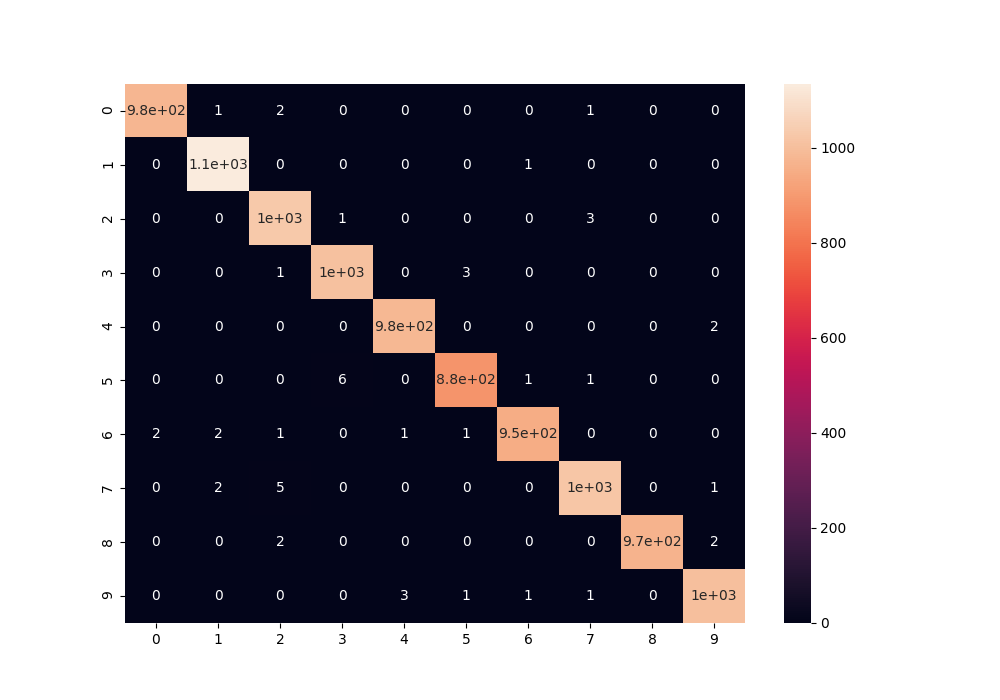
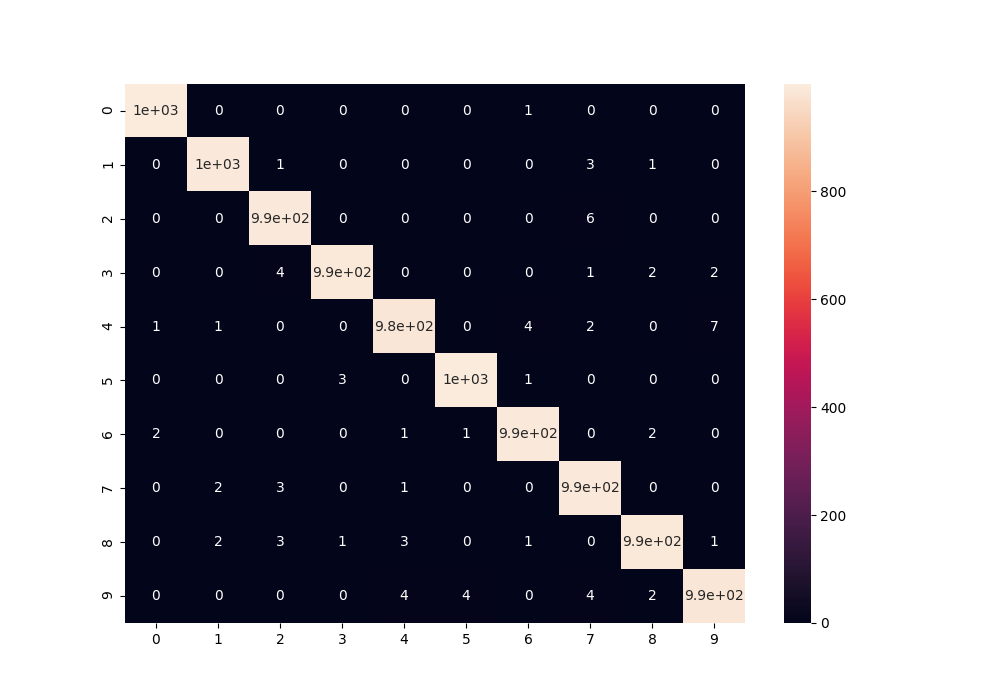
extreme measures

diff --git a/main.py b/main.py
@@ -12,7 +12,7 @@ from utils import *
 from classifier import *
 
 parser = argparse.ArgumentParser()
-parser.add_argument('--n_epochs', type=int, default=100)
+parser.add_argument('--n_epochs', type=int, default=30)
 parser.add_argument('--logInt', type=int, default=10)
 parser.add_argument('--momentum', type=float, default=.5)
 parser.add_argument('--lr', type=float, default=1e-2)
@@ -22,6 +22,8 @@ parser.add_argument('--msp', dest = 'modelStorePath', type=str, default="savedMo
 parser.add_argument('--vt', dest = 'varThresh', type=float, default=.1)
 parser.add_argument('--ns', dest = 'numSamp', type=int, default=20)
 parser.add_argument('--tr', dest = 'train', type=int, default=20)
+parser.add_argument('--lm', dest = 'loadModel', type=int, default=0)
+
 
 args = parser.parse_args()
 print(args)
@@ -35,7 +37,8 @@ if not os.path.exists(args.modelStorePath):
 train_loader, test_loader = getData(args)
 
 network = Net()
-network.load_state_dict(torch.load(args.modelStorePath + '/model.pt'))
+if args.train==0 or args.loadModel:
+  network.load_state_dict(torch.load(args.modelStorePath + '/model.pt'))
 
 optimizer = optim.SGD(network.parameters(), lr=args.lr, momentum=args.momentum)
 
@@ -85,8 +88,9 @@ def test(epoch, bestFP):
 
   return bestFP
 
+
 def decision():
-    finOutAll, finTarAll, lO = [], [], 0
+    finOutAll, finTarAll, finleft, finpred, lO = [], [], [], [], 0
     for data, target in test_loader:
       outs = []
       for i in range(args.numSamp):
@@ -103,18 +107,40 @@ def decision():
 
       finOut = []
       finTar = []
+      leftOut = []
+      predicted = []
+
       for ind, (i,j) in enumerate(zip(out, target)):
-        if outV[ind, i] < args.varThresh:
+        if outV[ind, i] < args.varThresh and outM[ind, i] > .5:
+        # if outM[ind, i] > .5:
+
           finOut.append(i)
           finTar.append(j)
+          predicted.append(ind)
         else:
           lO += 1
+          leftOut.append(ind)
       
+        # if outM[ind, i] < .5:
+        
+        if i!=j:
+          if ind in predicted:
+            print(outM[ind, i])
+            print("----------------")
+
+            for k, p in zip(outV[ind].tolist(), outM[ind].tolist()):
+              print(k, p)
+            print(j)
+
       finOutAll.append(np.eye(10)[finOut])
       finTarAll.append(np.eye(10)[finTar])
-      print(lO)
+      finleft.append(leftOut)
+      finpred.append(predicted)
+      
     ratesMC(np.concatenate(finOutAll, axis=0), np.concatenate(finTarAll, axis=0))
-    print("Left Out = " + str(float((100.0*lO)/len(test_loader.dataset))))
+    print("Coverage = " + str(100 - float((100.0*lO)/len(test_loader.dataset))))
+    np.save('leftOut', np.array(finleft))
+    np.save('predicted', np.array(finpred))
 
 
 bestFP = float('inf')

diff --git a/utils.py b/utils.py
@@ -10,11 +10,55 @@ import numpy as np
 import seaborn as sn
 import pandas as pd
 from sklearn.metrics import confusion_matrix
+from numpy import genfromtxt
 
+
+
+class MNISTJ(torch.utils.data.Dataset):
+
+  def __init__(self, dataPath, transform=None, train=True):
+        'Initialization'
+        self.dataPath = dataPath
+        self.transform = transform
+        self.train = train
+
+        if train:
+            self.data = torch.from_numpy(np.load('mnistTr.npy'))
+        else:
+            self.data = torch.from_numpy(np.load('mnistTe.npy'))
+
+        # import pdb
+        # pdb.set_trace()
+
+  def __len__(self):
+        'Denotes the total number of samples'
+        return self.data.shape[0]
+
+  def __getitem__(self, index):
+        if torch.cuda.is_available():
+            typ = torch.cuda.FloatTensor
+            typ2 = torch.cuda.LongTensor
+        else:
+            typ = torch.FloatTensor
+            typ2 = torch.LongTensor
+
+        X = self.data[index, 1:].view(1, 28, 28).type(typ)
+        y = self.data[index, 0].type(typ2)
+
+        return X, y
 def getData(args):
 
+    # train_loader = torch.utils.data.DataLoader(
+    # torchvision.datasets.MNIST(args.dataPath, train=True, download=True,
+    #                             transform=torchvision.transforms.Compose([
+    #                             torchvision.transforms.ToTensor(),
+    #                             torchvision.transforms.Normalize(
+    #                                 (0.1307,), (0.3081,))
+    #                             ])),
+    # batch_size=args.batchSize, shuffle=True)
+
     train_loader = torch.utils.data.DataLoader(
-    torchvision.datasets.MNIST(args.dataPath, train=True, download=True,
+                                MNISTJ(args.dataPath, train=True,
                                 transform=torchvision.transforms.Compose([
                                 torchvision.transforms.ToTensor(),
                                 torchvision.transforms.Normalize(
@@ -23,7 +67,7 @@ def getData(args):
     batch_size=args.batchSize, shuffle=True)
 
     test_loader = torch.utils.data.DataLoader(
-    torchvision.datasets.MNIST(args.dataPath, train=False, download=True,
+                                MNISTJ(args.dataPath, train=False,
                                 transform=torchvision.transforms.Compose([
                                 torchvision.transforms.ToTensor(),
                                 torchvision.transforms.Normalize(

diff --git a/helperMNIST.py b/helperMNIST.py
@@ -1,0 +1,42 @@
+import torch
+import torchvision
+import matplotlib.pyplot as plt
+import torch.nn as nn
+import torch.nn.functional as F
+import torch.optim as optim
+import argparse
+import os
+import numpy as np
+import seaborn as sn
+import pandas as pd
+from sklearn.metrics import confusion_matrix
+from numpy import genfromtxt
+
+data = genfromtxt('mnist.csv', delimiter=',')[1:]
+
+data = np.take(data,np.random.rand(data.shape[0]).argsort(),axis=0,out=data)
+data = data[data[:,0].argsort()]
+
+test = []
+train = []
+ct = 0
+j = 0
+for i in range(data.shape[0]):
+    if ct >= 1000:
+        ct = 0
+        j+=1
+        train.append(i)
+    else:
+        if j == data[i, 0]:
+            test.append(i)
+            ct += 1
+        else:
+            train.append(i)
+
+
+trData = data[train, :]
+teData = data[test, :]
+
+
+np.save('mnistTr', trData)
+np.save('mnistTe', teData)

diff --git a/task.md b/task.md
@@ -1,0 +1,65 @@
+# TASK
+
+Your task if you accept it, is to train a classifier model on the provided
+MNIST dataset using the python libraries of you choice.
+
+For this task, you will need to build a test set with at least 1000 samples
+per class.
+
+Train the model of your choice and compute the following metrics:
+1. Confusion matrix
+2. Per class FPR
+3. Per class TPR
+
+The goal now for your classifier is to reach a maximum false positive rate
+of 0.015% for each class in the test set while maintaining the recall as high
+as possible, by carefully designing a decision strategy. Your classifier will
+output 'not_sure' for cases where the model prefers to avoid making a decision.
+
+With your updated decision strategy recompute the following metrics on your
+test set:
+1. Confusion matrix
+2. Per class FPR
+3. Per class TPR
+4. Coverage => 1 - (num predicted 'not_sure' examples) / (total examples)
+
+Once the task is complete, please return us your code implementation (ipython
+notebook or python scripts) and make sure we can run it on our side.
+
+# DATA DESCRIPTION
+
+The data file mnist.csv contains gray-scale images of hand-drawn digits,
+from zero through nine.
+
+Each image is 28 pixels in height and 28 pixels in width, for a total of 784
+pixels in total. Each pixel has a single pixel-value associated with it,
+indicating the lightness or darkness of that pixel, with higher numbers meaning
+darker. This pixel-value is an integer between 0 and 255, inclusive.
+
+The data set (mnist.csv), has 785 columns. The first column, called
+"label", is the digit that was drawn by the user. The rest of the columns
+contain the pixel-values of the associated image.
+
+Each pixel column in the training set has a name like pixelx, where x is an
+integer between 0 and 783, inclusive. To locate this pixel on the image,
+suppose that we have decomposed x as x = i * 28 + j, where i and j are integers
+between 0 and 27, inclusive. Then pixelx is located on row i and column j of a
+28 x 28 matrix, (indexing by zero).
+
+For example, pixel31 indicates the pixel that is in the fourth column from the
+left, and the second row from the top, as in the ascii-diagram below.
+
+Visually, if we omit the "pixel" prefix, the pixels make up the image like this:
+
+000 001 002 003 ... 026 027
+028 029 030 031 ... 054 055
+056 057 058 059 ... 082 083
+ |   |   |   |  ...  |   |
+728 729 730 731 ... 754 755
+756 757 758 759 ... 782 783 
+
+# ACKNOWLEDGEMENTS
+More details about the dataset, including algorithms that
+have been tried on it and their levels of success, can be found at
+http://yann.lecun.com/exdb/mnist/index.html. The dataset is made available
+under a Creative Commons Attribution-Share Alike 3.0 license.

diff --git a/readme.md b/readme.md
@@ -60,7 +60,29 @@ Class | True Pos. | True Neg. | False Pos. | False Neg. |
   9   | 99.7952 | 99.9773 | 0.0226 | 0.2047 |
 Mean  | 99.8956 | 99.9886 | 0.0113 | 0.1043 |
 
-Left Out Percentage : 1.99%
+Coverage Percentage : 98.01%
+
+
+To run the code, follow these steps:
+
+''bash
+python main [--tr] [--n_epochs] [--logInt] [--momentum] [--lr] [--batchSize] [--dataPath] [--msp] [--vt] [--ns]
+''
+Parameters:
+* tr : 0 means use decision-making to get results. 1 (default) means train normal model
+* msp : path to saved model
+* vt : threshold for decision-making function
+* ns : number of samples for decision-making
+* others are self-explanatory, not to be changed generally 
+
+Example 
+''bash
+python main 
+''
+
+''bash
+python main --tr=1
+''
 
 [1] https://www.kaggle.com/cdeotte/how-to-choose-cnn-architecture-mnist
 
